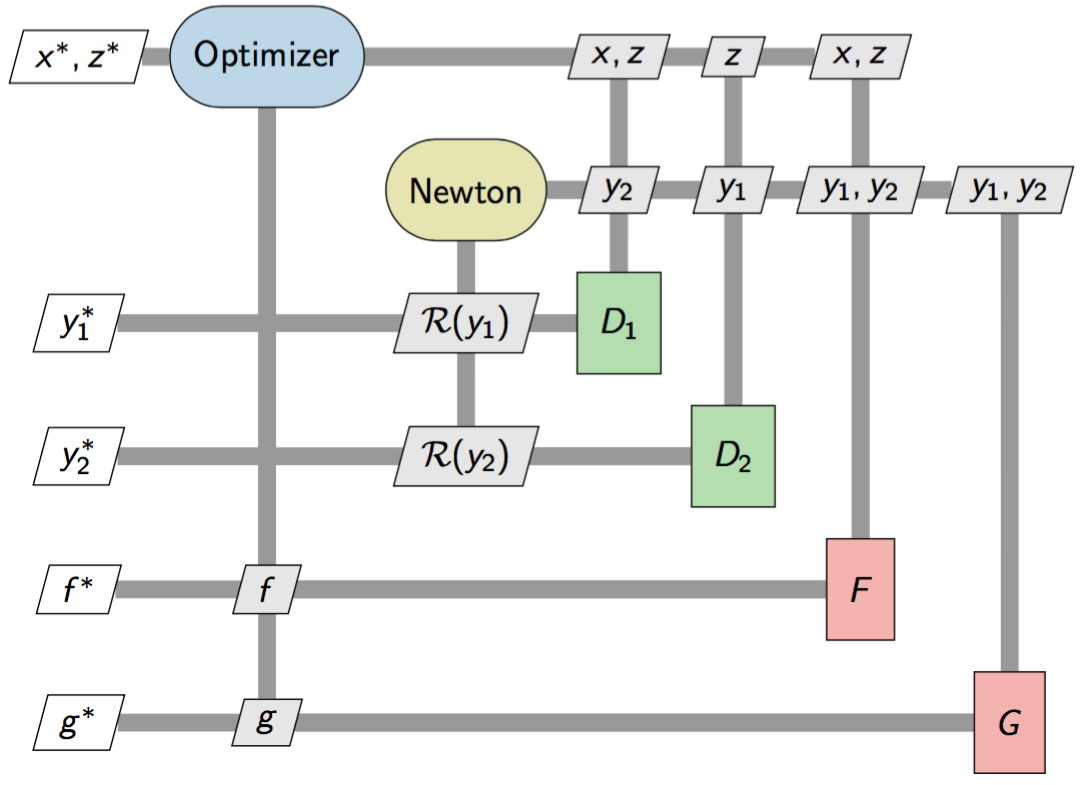
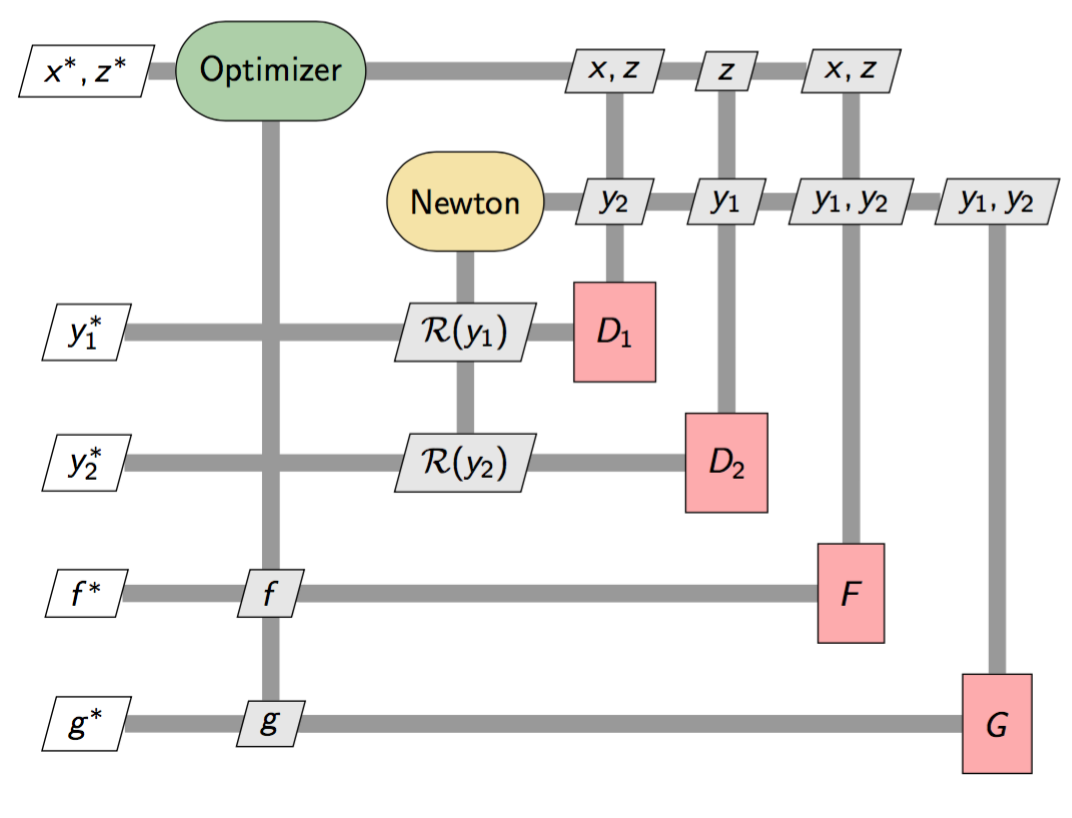
more color changes

Changed region(s): [[0.0, 0.0, 1.0, 1.0]]

diff --git a/pyxdsm/diagram_styles.tex b/pyxdsm/diagram_styles.tex
@@ -1,27 +1,41 @@
 % Define all the styles used to produce XDSMs for MDO
-\definecolor{tableau0}{RGB}{31,119,180}
-\definecolor{tableau1}{RGB}{255,158,74}
-\definecolor{tableau2}{RGB}{103,191,92}
-\definecolor{tableau3}{RGB}{237,102,93}
-\definecolor{tableau4}{RGB}{148,103,189}
-\definecolor{tableau5}{RGB}{168,120,110}
-\definecolor{tableau6}{RGB}{237,151,202}
-\definecolor{tableau7}{RGB}{162,162,162}
-\definecolor{tableau8}{RGB}{205,204,93}
-\definecolor{tableau9}{RGB}{109,204,218}
+% \definecolor{tableau0}{RGB}{31,119,180}
+% \definecolor{tableau1}{RGB}{255,158,74}
+% \definecolor{tableau2}{RGB}{103,191,92}
+% \definecolor{tableau3}{RGB}{237,102,93}
+% \definecolor{tableau4}{RGB}{148,103,189}
+% \definecolor{tableau5}{RGB}{168,120,110}
+% \definecolor{tableau6}{RGB}{237,151,202}
+% \definecolor{tableau7}{RGB}{162,162,162}
+% \definecolor{tableau8}{RGB}{205,204,93}
+% \definecolor{tableau9}{RGB}{109,204,218}
+
+\definecolor{tableau0}{RGB}{77, 121, 168}
+\definecolor{tableau1}{RGB}{242, 142, 43}
+\definecolor{tableau2}{RGB}{255, 87, 88}
+\definecolor{tableau3}{RGB}{118, 183, 178}
+\definecolor{tableau4}{RGB}{89, 161, 78}
+\definecolor{tableau5}{RGB}{237, 201, 72}
+\definecolor{tableau6}{RGB}{176, 121, 162}
+\definecolor{tableau7}{RGB}{255, 157, 167}
+\definecolor{tableau8}{RGB}{156, 116, 94}
+\definecolor{tableau9}{RGB}{186, 176, 172}
+
+
 
 \tikzstyle{every node}=[font=\sffamily,align=center]
 
 % Component types
-\tikzstyle{Optimization} = [rounded rectangle,draw,fill=tableau0!30,inner sep=6pt,minimum height=1cm,text badly centered]
-\tikzstyle{LP_Optimization} = [rectangle,draw,fill=tableau0!50,inner sep=6pt,minimum height=1cm,text badly centered]
+\tikzstyle{Optimization} = [rounded rectangle,draw,fill=tableau4!50,inner sep=6pt,minimum height=1cm,text badly centered]
+\tikzstyle{LP_Optimization} = [rectangle,draw,fill=tableau4!50,inner sep=6pt,minimum height=1cm,text badly centered]
 \tikzstyle{Analysis} = [rectangle,draw,fill=tableau2!50,inner sep=6pt,minimum height=1cm,text badly centered]
 \tikzstyle{ImplicitAnalysis} = [rectangle,draw,fill=tableau3!50,inner sep=6pt,minimum height=1cm,text badly centered]
-\tikzstyle{Function} = [rectangle,draw,fill=tableau3!50,inner sep=6pt,minimum height=1cm,text badly centered]
-\tikzstyle{MDA} = [rounded rectangle,draw,fill=tableau8!50,inner sep=6pt,minimum height=1cm,text badly centered]
+\tikzstyle{Function} = [rectangle,draw,fill=tableau2!50,inner sep=6pt,minimum height=1cm,text badly centered]
+\tikzstyle{MDA} = [rounded rectangle,draw,fill=tableau5!50,inner sep=6pt,minimum height=1cm,text badly centered]
 \tikzstyle{Metamodel} = [rectangle,draw,fill=tableau8!50,inner sep=6pt,minimum height=1cm,text badly centered]
 \tikzstyle{DOE} = [rounded rectangle,draw,fill=tableau8!50,inner sep=6pt,minimum height=1cm,text badly centered]
 %\tikzstyle{OptFunction} = [rectangle,draw,fill=red!20,inner sep=6pt,minimum height=1cm,text badly centered]
+
 
 %% A simple command to give the repeated structure look for components and data
 % \tikzstyle{stack} = [double copy shadow]

diff --git a/examples/kitchen_sink.py b/examples/kitchen_sink.py
@@ -3,17 +3,21 @@ from pyxdsm.XDSM import XDSM
 # styling names for the boxes
 opt = 'Optimization'
 solver = 'MDA'
-comp = 'Analysis'
+ecomp = 'Analysis'
+icomp = 'ImplicitAnalysis'
 group = 'Metamodel'
 func = 'Function'
 
 x = XDSM()
 
 x.add_system('opt', opt, r'\text{Optimizer}')
-x.add_system('D1', comp, r'D_1')
+x.add_system('D1', ecomp, r'D_1')
 
 # can fade out blocks to allow for emphasis on sub-sections of XDSM
-x.add_system('D2', comp, r'D_2', faded=True)
+x.add_system('D2', icomp, r'D_2', faded=True)
+
+# can fade out blocks to allow for emphasis on sub-sections of XDSM
+x.add_system('D3', icomp, r'D_3')
 
 # if you give the label as a list or tuple, it splits it onto multiple lines
 x.add_system('F', func, (r'F', r'\text{Functional}'), width=1.8)
@@ -26,6 +30,7 @@ x.add_process(['opt', 'D1', 'D2', 'F', 'G', 'opt'], arrow=True)
 
 x.connect('opt', 'D1', r'x, z, y_2')
 x.connect('opt', 'D2', r'z, y_1')
+x.connect('opt', 'D3', r'z, y_1')
 x.connect('opt', 'F', r'x, z')
 x.connect('opt', 'F', r'y_1, y_2')
 
